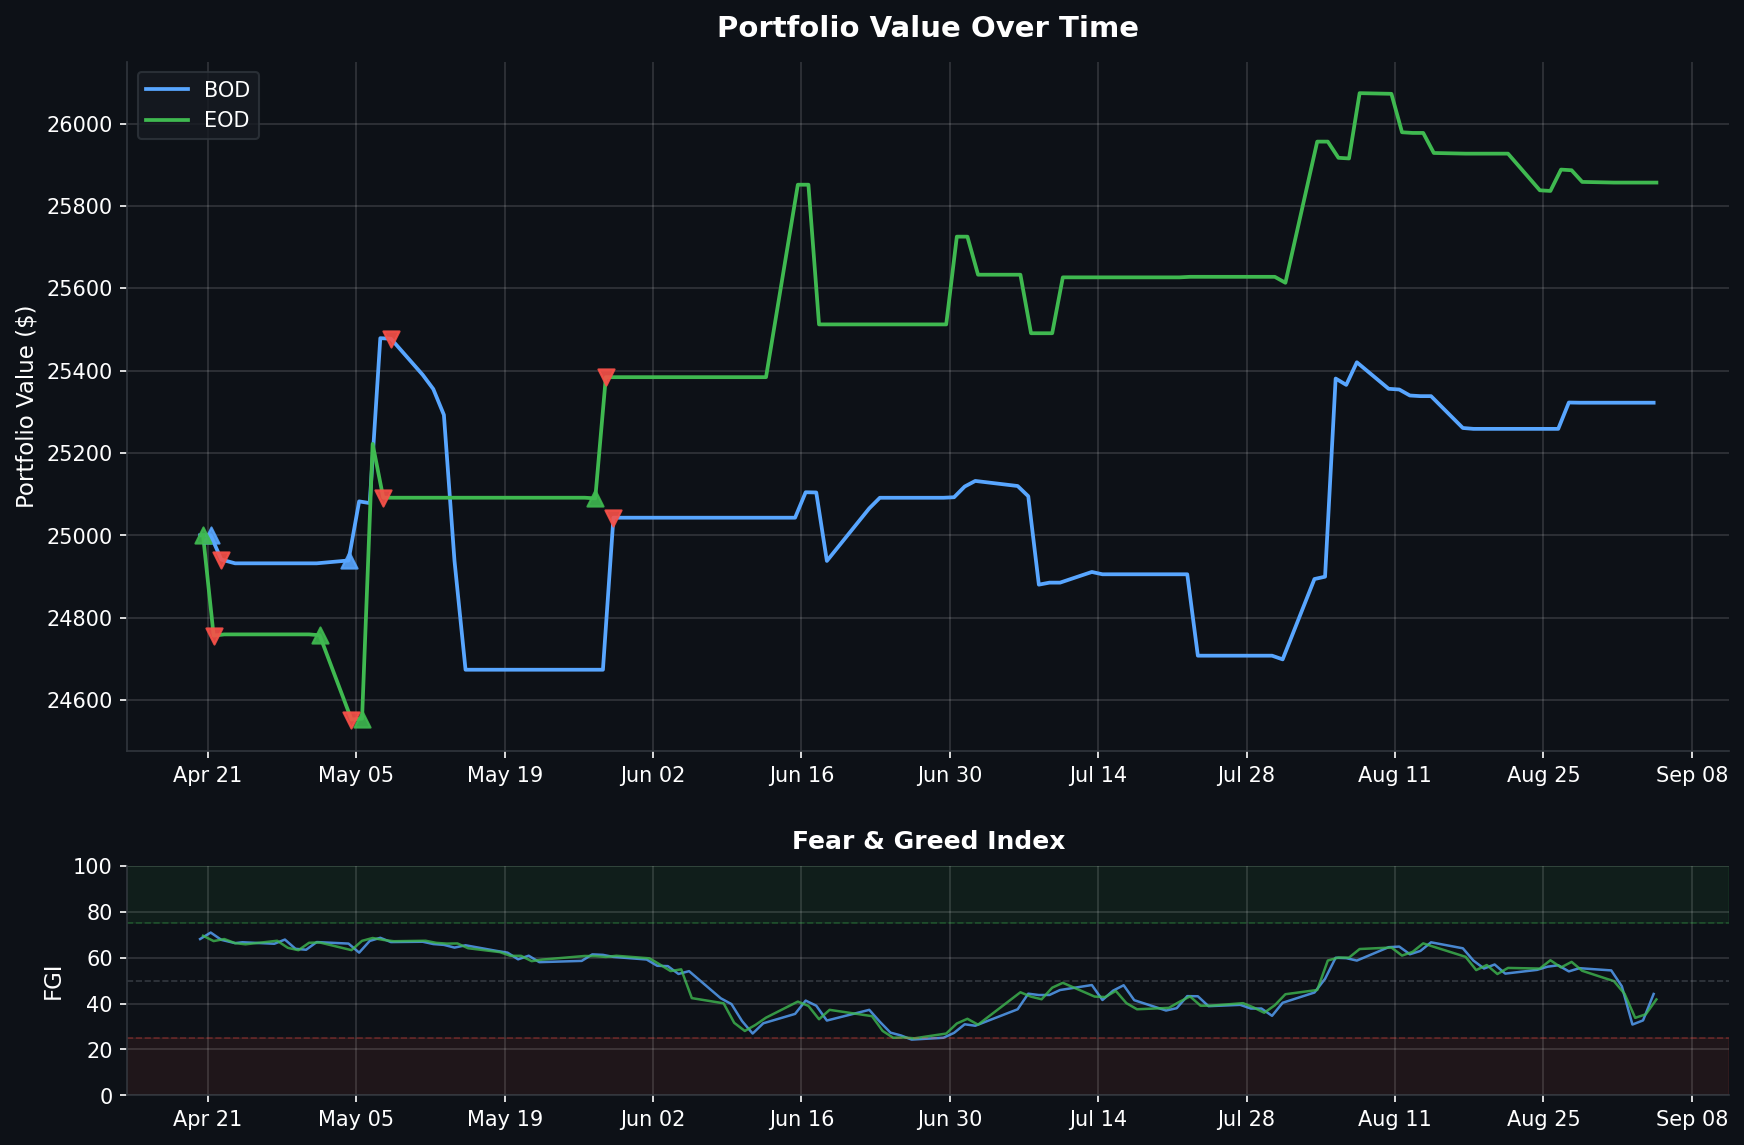
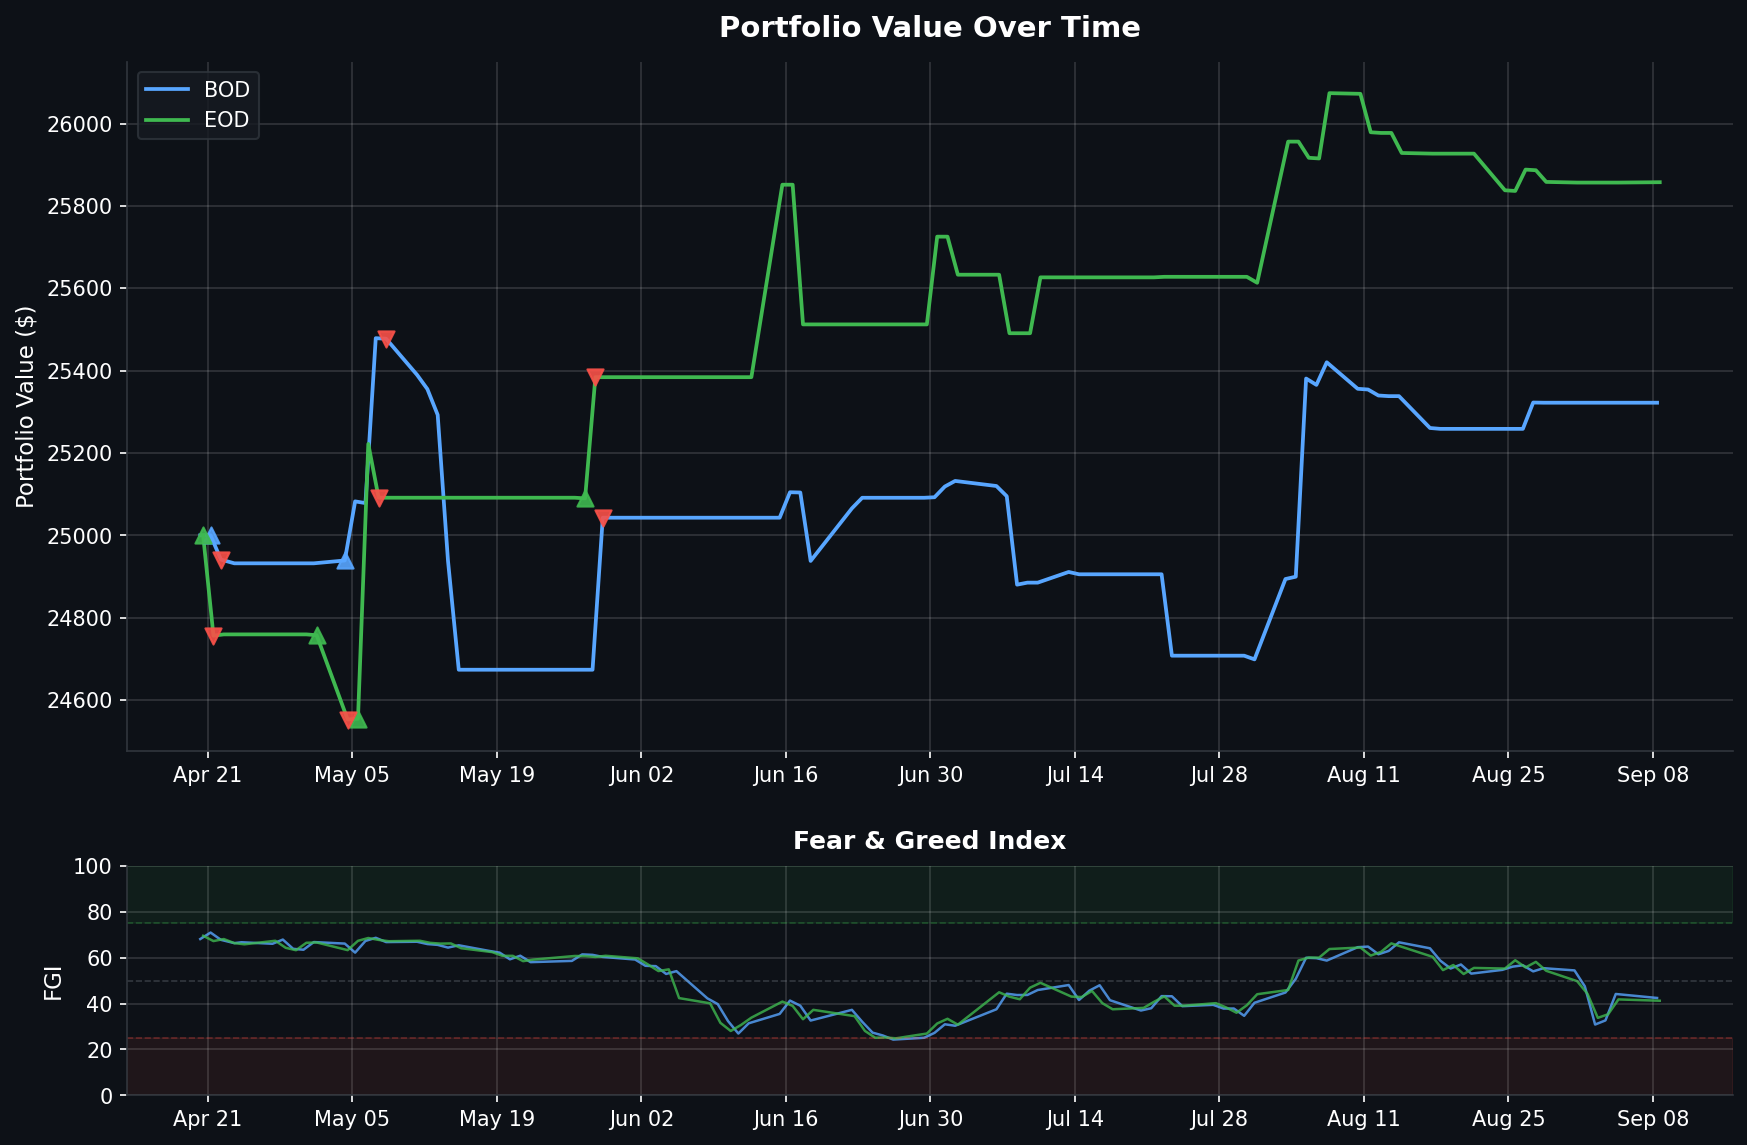
Daily data backup 2026-09-08

diff --git a/README.md b/README.md
@@ -1,6 +1,6 @@
 # Fear & Greed Index Trading Bot
 
-> Dashboard auto-updated daily at market close | Last update: **2026-09-07 13:30 PST**
+> Dashboard auto-updated daily at market close | Last update: **2026-09-08 13:30 PST**
 
 ![Portfolio Performance](assets/portfolio_chart.png)
 
@@ -12,12 +12,12 @@
 |--------|-------|
 | Portfolio Value | **$25,322.10** |
 | Buying Power | $101,288.40 |
-| Current FGI | 44.17 |
+| Current FGI | 42.43 |
 | Position | FLAT |
 | Total P&L | **$+995** |
 | Win Rate | 50% (1W / 1L) |
 | Total Round Trips | 2 |
-| Last Signal | NO_ACTION @ 2026-09-04 09:35 |
+| Last Signal | NO_ACTION @ 2026-09-08 09:36 |
 
 <details>
 <summary>Trade History (2 trades)</summary>
@@ -34,11 +34,11 @@
 
 | Time | Action | Price | FGI | Momentum | Velocity | Volatility | Reason |
 |------|--------|-------|-----|----------|----------|------------|--------|
+| 09-08 09:36 | NO_ACTION | $768.76 | 42.43 | 2.68 | 3.86 | 0.0816 | BUY did not fill after 3 attempts |
 | 09-04 09:35 | NO_ACTION | $772.65 | 44.17 | 8.27 | -1.11 | 0.0803 | Insufficient momentum/velocity for entry |
 | 09-03 09:35 | NO_ACTION | $768.75 | 32.66 | -4.35 | -7.26 | 0.0761 | Insufficient momentum/velocity for entry |
 | 09-02 09:35 | NO_ACTION | $762.27 | 30.86 | -13.41 | -8.18 | 0.0718 | Insufficient momentum/velocity for entry |
 | 09-01 09:35 | NO_ACTION | $761.95 | 47.51 | -4.94 | -2.16 | 0.0713 | Insufficient momentum/velocity for entry |
-| 08-31 09:35 | NO_ACTION | $766.17 | 54.43 | -0.18 | -0.74 | 0.0934 | Insufficient momentum/velocity for entry |
 
 </details>
 
@@ -48,14 +48,14 @@
 
 | Metric | Value |
 |--------|-------|
-| Portfolio Value | **$25,856.69** |
-| Buying Power | $103,426.76 |
-| Current FGI | 41.8 |
+| Portfolio Value | **$25,857.58** |
+| Buying Power | $42,743.32 |
+| Current FGI | 41.23 |
 | Position | FLAT |
 | Total P&L | **$+302** |
 | Win Rate | 50% (2W / 2L) |
 | Total Round Trips | 4 |
-| Last Signal | NO_ACTION @ 2026-09-04 15:50 |
+| Last Signal | NO_ACTION @ 2026-09-08 15:51 |
 
 <details>
 <summary>Trade History (4 trades)</summary>
@@ -74,11 +74,11 @@
 
 | Time | Action | Price | FGI | Momentum | Velocity | Volatility | Reason |
 |------|--------|-------|-----|----------|----------|------------|--------|
+| 09-08 15:51 | NO_ACTION | $766.33 | 41.23 | 1.77 | 2.49 | 0.083 | BUY did not fill after 3 attempts |
 | 09-04 15:50 | NO_ACTION | $770.33 | 41.8 | 4.83 | -0.81 | 0.0814 | Insufficient momentum/velocity for entry |
 | 09-03 15:50 | NO_ACTION | $773.35 | 35.34 | -2.44 | -4.80 | 0.0832 | Insufficient momentum/velocity for entry |
 | 09-02 15:50 | NO_ACTION | $765.32 | 33.77 | -8.81 | -6.83 | 0.0742 | Insufficient momentum/velocity for entry |
 | 09-01 15:50 | NO_ACTION | $761.07 | 44.23 | -5.18 | -4.64 | 0.0723 | Insufficient momentum/velocity for entry |
-| 08-31 15:50 | NO_ACTION | $767.39 | 49.74 | -4.31 | -2.00 | 0.0931 | Insufficient momentum/velocity for entry |
 
 </details>
 
